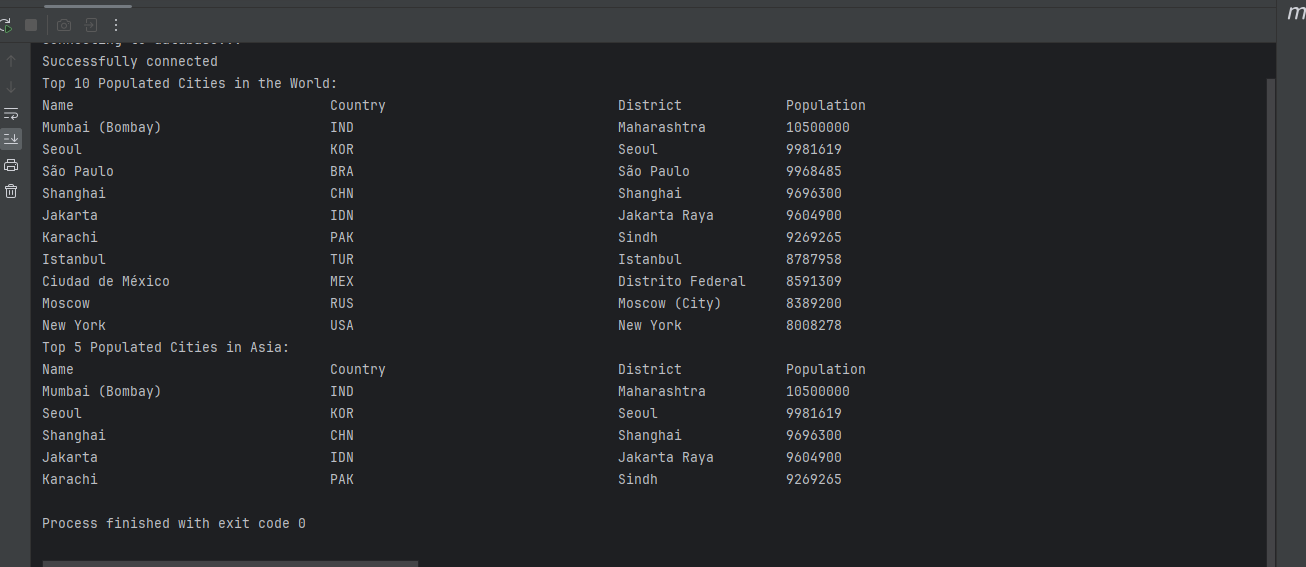
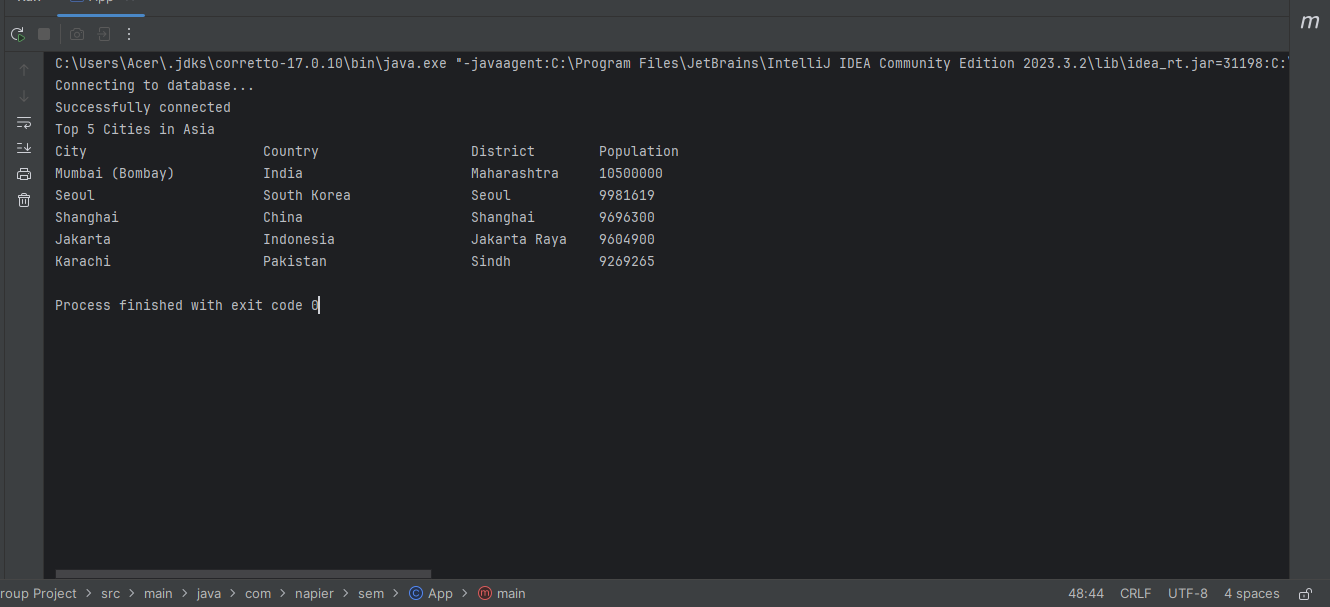
Added Missing Columns

diff --git a/src/main/java/com/napier/sem/CountryQuery.java b/src/main/java/com/napier/sem/CountryQuery.java
@@ -37,23 +37,23 @@ public class CountryQuery {
         }
     }
 
-    public ArrayList<City> getTopCitiesByCountry(String countryCode, int N) {
+    public ArrayList<City> getTopCitiesByCountry(String country, int N) {
         try {
             // Create an SQL statement
             Statement stmt = con.createStatement();
-            String strSelect =
-                    "SELECT Name, CountryCode, District, Population " +
-                            "FROM city " +
-                            "WHERE CountryCode = '" + countryCode + "' " +
-                            "ORDER BY Population DESC " +
-                            "LIMIT " + N;
+            String strSelect = "SELECT ci.Name AS City, c.Name AS Country, ci.District, ci.Population " +
+                    "FROM city ci " +
+                    "JOIN country c ON ci.CountryCode = c.Code " +
+                    "WHERE c.Name = '" + country + "' " +
+                    "ORDER BY ci.Population DESC " +
+                    "LIMIT " + N;
             ResultSet rset = stmt.executeQuery(strSelect);
             // Extract city information
             ArrayList<City> cities = new ArrayList<>();
             while (rset.next()) {
                 City cityData = new City();
-                cityData.name = rset.getString("Name");
-                cityData.country = rset.getString("CountryCode");
+                cityData.name = rset.getString("City");
+                cityData.country = rset.getString("Country");
                 cityData.district = rset.getString("District");
                 cityData.population = rset.getInt("Population");
                 cities.add(cityData);
@@ -61,7 +61,7 @@ public class CountryQuery {
             return cities;
         } catch (Exception e) {
             System.out.println(e.getMessage());
-            System.out.println("Failed to get top " + N + " cities by population in " + countryCode);
+            System.out.println("Failed to get top " + N + " cities by population in " + country);
             return null;
         }
     }

diff --git a/src/main/java/com/napier/sem/RegionQuery.java b/src/main/java/com/napier/sem/RegionQuery.java
@@ -81,6 +81,7 @@ public class RegionQuery {
                     "JOIN country c ON ci.CountryCode = c.Code " +
                     "WHERE c.Region = '" + region + "' " +
                     "ORDER BY ci.Population DESC";// Order by population from largest to smallest
+            // Execute SQL statement
             ResultSet rset = stmt.executeQuery(strSelect);
             ArrayList<City> cities = new ArrayList<>();
             while (rset.next()) {
@@ -105,20 +106,19 @@ public class RegionQuery {
             // Create an SQL statement
             Statement stmt = con.createStatement();
             // Create string for SQL statement
-            String strSelect =
-                    "SELECT Name, CountryCode, District, Population " +
-                            "FROM city " +
-                            "WHERE CountryCode IN (SELECT Code FROM country WHERE Region = '" + region + "') " +
-                            "ORDER BY Population DESC " +
-                            "LIMIT " + N;
+            String strSelect = "SELECT ci.Name AS City, c.Name AS Country, ci.District, ci.Population " +
+                    "FROM city ci " +
+                    "JOIN country c ON ci.CountryCode = c.Code " +
+                    "WHERE c.Region = '" + region + "' " +
+                    "ORDER BY ci.Population DESC " +
+                    "LIMIT " + N;
             // Execute SQL statement
             ResultSet rset = stmt.executeQuery(strSelect);
-            // Extract city information
             ArrayList<City> cities = new ArrayList<>();
             while (rset.next()) {
                 City cityData = new City();
-                cityData.name = rset.getString("Name");
-                cityData.country = rset.getString("CountryCode");
+                cityData.name = rset.getString("City");
+                cityData.country = rset.getString("Country");
                 cityData.district = rset.getString("District");
                 cityData.population = rset.getInt("Population");
                 cities.add(cityData);

diff --git a/src/main/java/com/napier/sem/App.java b/src/main/java/com/napier/sem/App.java
@@ -26,7 +26,7 @@ public class App {
         DistrictQuery districtQuery = new DistrictQuery(a.con);
 
         // Get Capital Cities in world, continent and region
-       ArrayList<Country> capitalCitiesByPopulation = worldQuery.getCapitalCitiesByPopulation();
+        ArrayList<Country> capitalCitiesByPopulation = worldQuery.getCapitalCitiesByPopulation();
         System.out.println("All Capital Cities in the world:  ");
         a.displayCapitalCity(capitalCitiesByPopulation);
 
@@ -39,7 +39,7 @@ public class App {
         a.displayCapitalCity(capitalCitiesByRegion);
 
         // Get Top N cities in world, continent, region, country and district
-       /* ArrayList<City> topNCitiesByPopulation = worldQuery.getTopNCitiesByPopulation(10);
+        /* ArrayList<City> topNCitiesByPopulation = worldQuery.getTopNCitiesByPopulation(10);
         System.out.println("Top 10 Populated Cities in the World: ");
         a.displayCity(topNCitiesByPopulation);
 
@@ -51,13 +51,13 @@ public class App {
        System.out.println("Top 5 Cities in Eastern Europe");
        a.displayCity(topCitiesByRegion);
 
-       ArrayList<City> topCitiesByCountry = countryQuery.getTopCitiesByCountry("USA" , 7);
-       System.out.println("Top 7 Cities in USA");
+       ArrayList<City> topCitiesByCountry = countryQuery.getTopCitiesByCountry("India" , 7);
+       System.out.println("Top 7 Cities in India");
        a.displayCity(topCitiesByCountry);
 
-       ArrayList<City> topCitiesByDistrict = districtQuery.getTopCitiesByDistrict("Florida" , 3);
-       System.out.println("Top 3 Cities in Florida");
-       a.displayCity(topCitiesByDistrict);*/
+        ArrayList<City> topCitiesByDistrict = districtQuery.getTopCitiesByDistrict("England" , 6);
+        System.out.println("Top 6 Cities in England");
+        a.displayCity(topCitiesByDistrict); */
 
         //Get Cities by Population in World, Continent and Region, District and Country
         /* ArrayList<City> citiesByPopulation = worldQuery.getCitiesByPopulation();

diff --git a/src/main/java/com/napier/sem/WorldQuery.java b/src/main/java/com/napier/sem/WorldQuery.java
@@ -110,21 +110,20 @@ public class WorldQuery {
             Statement stmt = con.createStatement();
             // Create string for SQL statement
             String strSelect =
-                    "SELECT Name, CountryCode, District, Population " +
-                            "FROM city " +
-                            "ORDER BY Population DESC " +
-                            "LIMIT " + N; // Limit the result to the top N cities
-            // Execute SQL statement
+                    "SELECT ci.Name AS City, c.Name AS Country, ci.District, ci.Population " +
+                    "FROM city ci " +
+                    "JOIN country c ON ci.CountryCode = c.Code " +
+                    "ORDER BY ci.Population DESC " +
+                    "LIMIT " + N;
             ResultSet rset = stmt.executeQuery(strSelect);
-            // Extract city information
             ArrayList<City> cities = new ArrayList<>();
             while (rset.next()) {
-                City cityData = new City();
-                cityData.name = rset.getString("Name");
-                cityData.country = rset.getString("CountryCode");
-                cityData.district = rset.getString("District");
-                cityData.population = rset.getInt("Population");
-                cities.add(cityData);
+                City city = new City();
+                city.name = rset.getString("City");
+                city.country = rset.getString("Country");
+                city.district = rset.getString("District");
+                city.population = rset.getInt("Population");
+                cities.add(city);
             }
             return cities;
         } catch (Exception e) {

diff --git a/src/main/java/com/napier/sem/ContinentQuery.java b/src/main/java/com/napier/sem/ContinentQuery.java
@@ -105,20 +105,20 @@ public class ContinentQuery {
             // Create an SQL statement
             Statement stmt = con.createStatement();
             // Create string for SQL statement
-            String strSelect =
-                    "SELECT Name, CountryCode, District, Population " +
-                            "FROM city " +
-                            "WHERE CountryCode IN (SELECT Code FROM country WHERE Continent = '" + continent + "') " +
-                            "ORDER BY Population DESC " +
-                            "LIMIT " + N;
+            String strSelect = "SELECT ci.Name AS City, c.Name AS Country, ci.District, ci.Population " +
+                    "FROM city ci " +
+                    "JOIN country c ON ci.CountryCode = c.Code " +
+                    "WHERE c.Continent = '" + continent + "' " +
+                    "ORDER BY ci.Population DESC " +
+                    "LIMIT " + N;
             // Execute SQL statement
             ResultSet rset = stmt.executeQuery(strSelect);
             // Extract city information
             ArrayList<City> cities = new ArrayList<>();
             while (rset.next()) {
                 City cityData = new City();
-                cityData.name = rset.getString("Name");
-                cityData.country = rset.getString("CountryCode");
+                cityData.name = rset.getString("City");
+                cityData.country = rset.getString("Country");
                 cityData.district = rset.getString("District");
                 cityData.population = rset.getInt("Population");
                 cities.add(cityData);

diff --git a/src/main/java/com/napier/sem/DistrictQuery.java b/src/main/java/com/napier/sem/DistrictQuery.java
@@ -41,19 +41,19 @@ public class DistrictQuery {
         try {
             // Create an SQL statement
             Statement stmt = con.createStatement();
-            String strSelect =
-                    "SELECT Name, CountryCode, District, Population " +
-                            "FROM city " +
-                            "WHERE District = '" + district + "' " +
-                            "ORDER BY Population DESC " +
-                            "LIMIT " + N;
+            String strSelect = "SELECT ci.Name AS City, c.Name AS Country, ci.District, ci.Population " +
+                    "FROM city ci " +
+                    "JOIN country c ON ci.CountryCode = c.Code " +
+                    "WHERE ci.District = '" + district + "' " +
+                    "ORDER BY ci.Population DESC " +
+                    "LIMIT " + N;
             ResultSet rset = stmt.executeQuery(strSelect);
             // Extract city information
             ArrayList<City> cities = new ArrayList<>();
             while (rset.next()) {
                 City cityData = new City();
-                cityData.name = rset.getString("Name");
-                cityData.country = rset.getString("CountryCode");
+                cityData.name = rset.getString("City");
+                cityData.country = rset.getString("Country");
                 cityData.district = rset.getString("District");
                 cityData.population = rset.getInt("Population");
                 cities.add(cityData);
